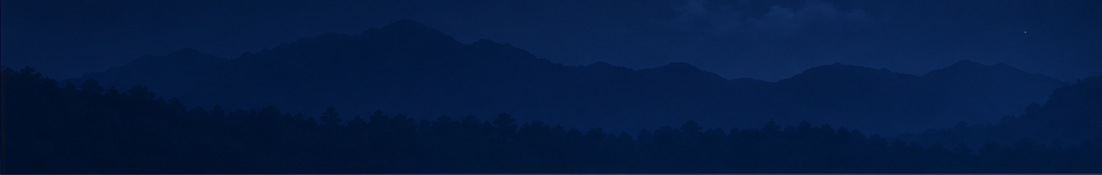
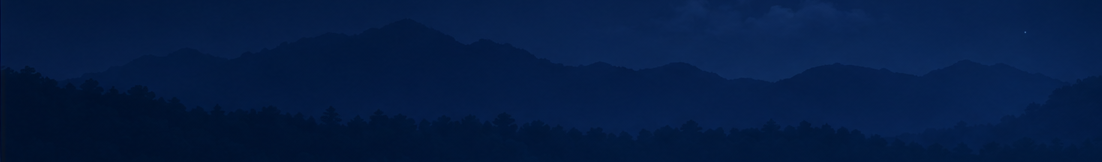
Hero: tighter ridge crop (no blue valley strip); global black table scrollbars

Changed region(s): [[0.0617, 0.9877, 1.0, 1.0], [0.0309, 0.463, 0.0617, 0.4938]]

diff --git a/frontend/src/App.css b/frontend/src/App.css
@@ -245,6 +245,38 @@ html, body {
   -webkit-overflow-scrolling: touch;
 }
 
+/* Black horizontal scrollbar on EVERY table container (all roles/pages) —
+   wide black thumb + light track so horizontal scrolling is always visible.
+   (webkit pseudo only: scrollbar-color/width would disable these in
+   Chromium and render a thin default bar instead.) */
+.table-container,
+.table-wrapper,
+.perm-table-container {
+  overflow-x: auto;
+}
+.table-container::-webkit-scrollbar,
+.table-wrapper::-webkit-scrollbar,
+.perm-table-container::-webkit-scrollbar {
+  height: 10px;
+}
+.table-container::-webkit-scrollbar-track,
+.table-wrapper::-webkit-scrollbar-track,
+.perm-table-container::-webkit-scrollbar-track {
+  background: #e5e7eb;
+}
+.table-container::-webkit-scrollbar-thumb,
+.table-wrapper::-webkit-scrollbar-thumb,
+.perm-table-container::-webkit-scrollbar-thumb {
+  background: #111827;
+  border-radius: 999px;
+  border: 2px solid #e5e7eb;
+}
+.table-container::-webkit-scrollbar-thumb:hover,
+.table-wrapper::-webkit-scrollbar-thumb:hover,
+.perm-table-container::-webkit-scrollbar-thumb:hover {
+  background: #000;
+}
+
 .filter-select {
   padding: 9px 14px;
   border: 1px solid #e5e7eb;
